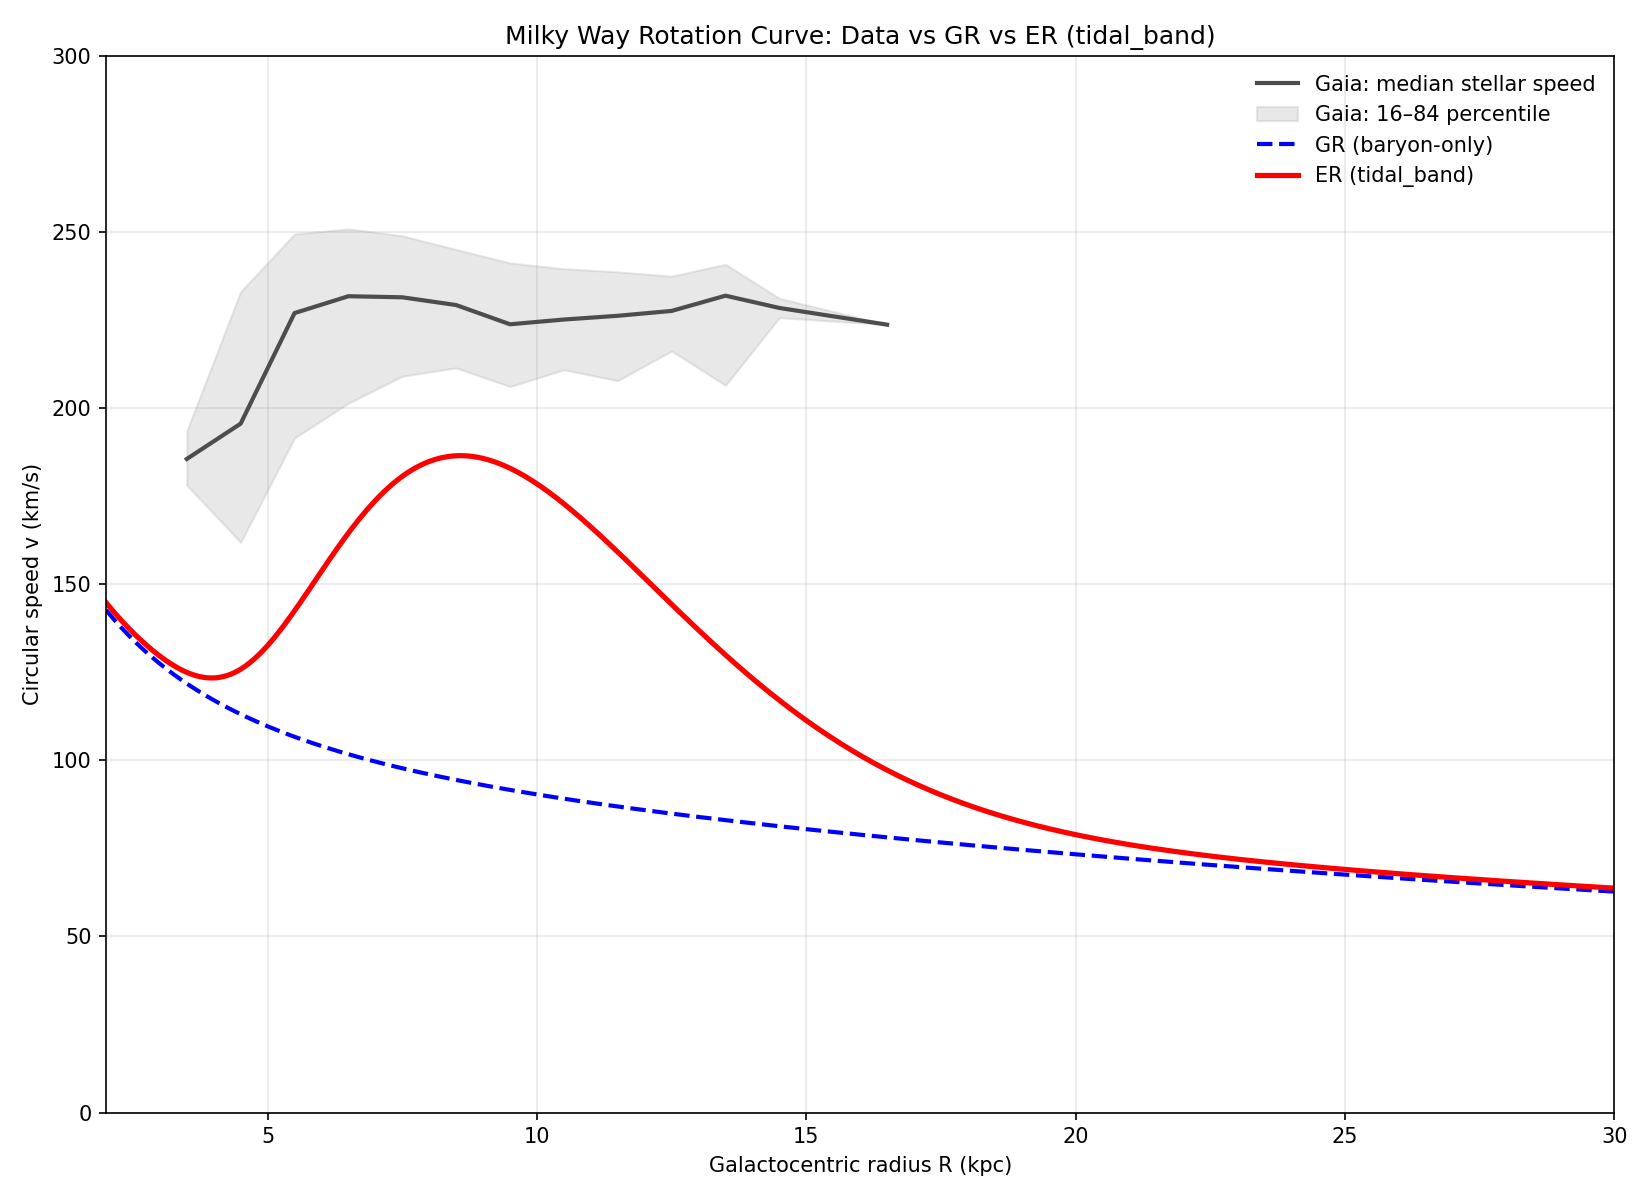
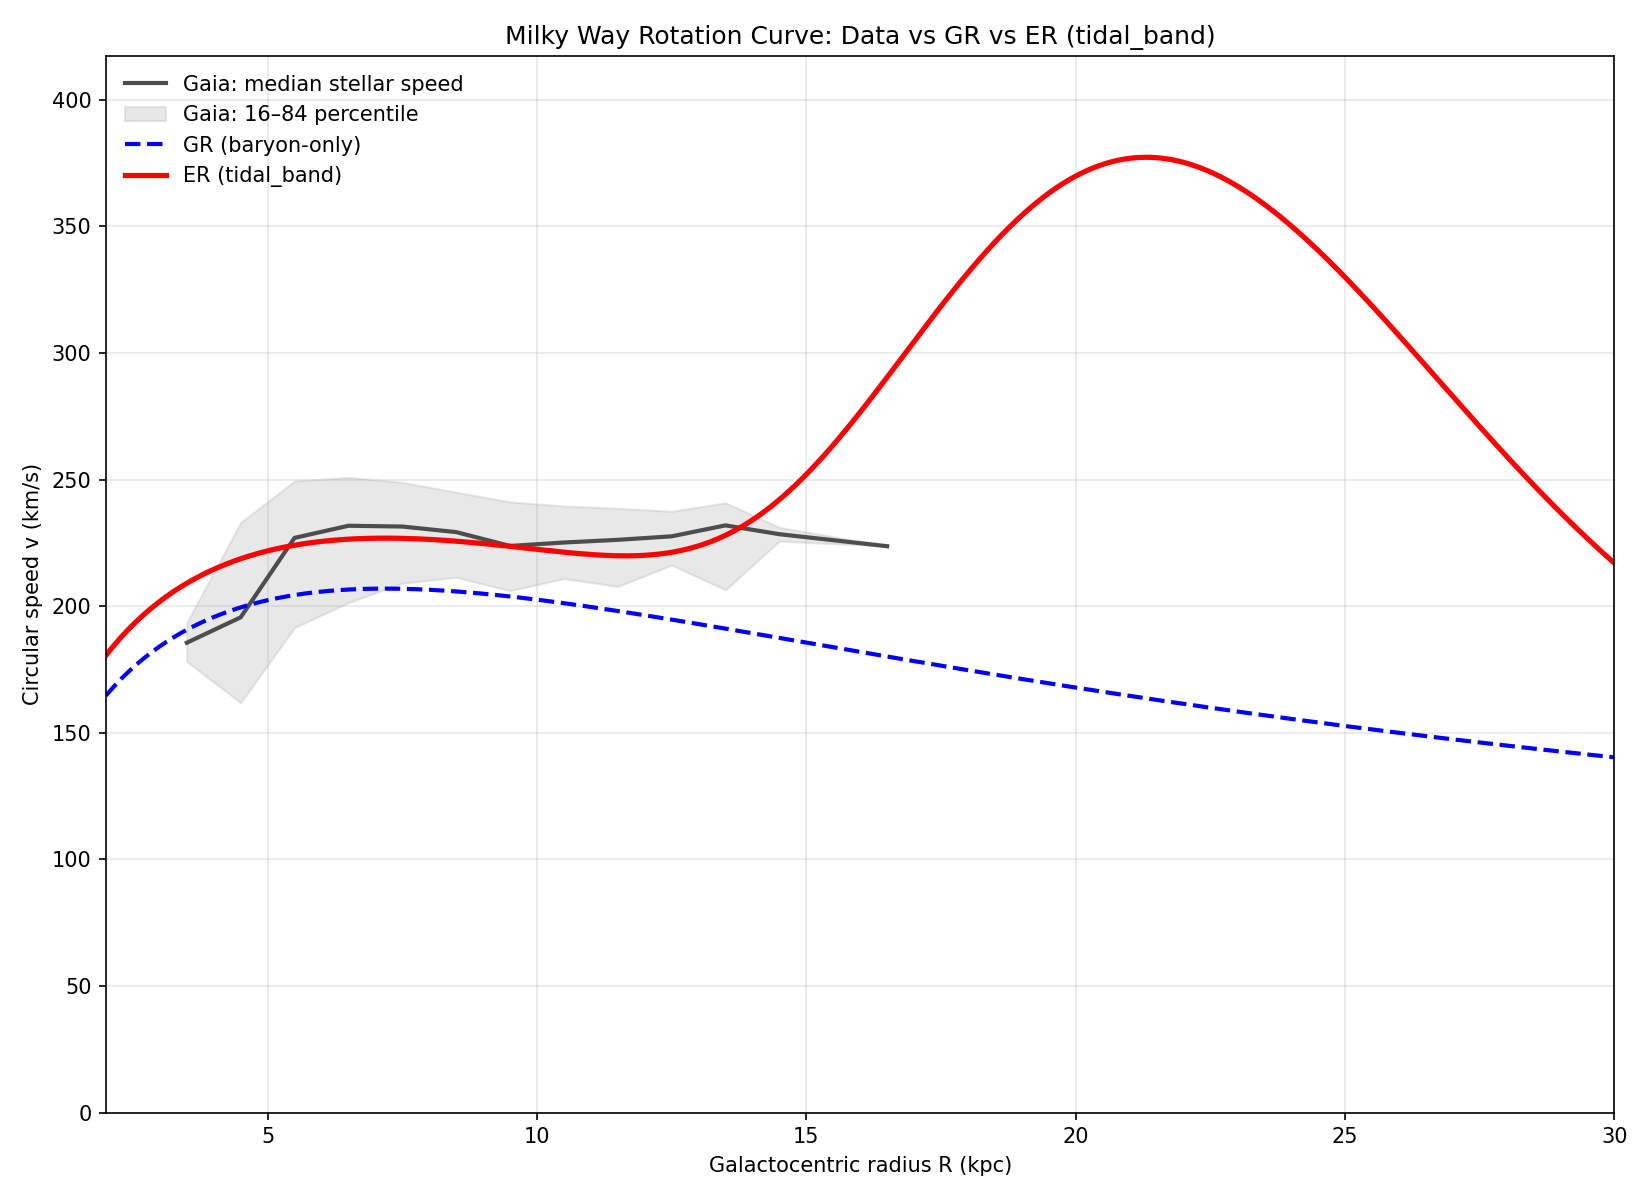
plot: read param_names from npz; remap params_summary generics -> real names; regenerate rotation comparison image

diff --git a/tools/plot_rotation_comparison.py b/tools/plot_rotation_comparison.py
@@ -205,14 +205,19 @@ def build_param_dict(baryon_params: dict, xi_params: dict) -> dict:
 def _weighted_quantiles_from_npz(npz_path: Path) -> Optional[Dict[str, float]]:
     try:
         data = np.load(str(npz_path))
+        # Prefer explicit param names; support both 'names' and 'param_names'
         names = None
         if "names" in data:
             names = [str(n) for n in data["names"]]
+        elif "param_names" in data:
+            names = [str(n) for n in data["param_names"]]
+        # Samples can be stored under several keys
         samples = None
         for key in ("samples", "posterior_samples", "xs"):
             if key in data:
                 samples = np.asarray(data[key])
                 break
+        # Weights (optional)
         weights = None
         for key in ("weights", "w"):
             if key in data:
@@ -264,6 +269,24 @@ def _load_params_from_run(run_dir: Path) -> Optional[Dict[str, float]]:
                     except Exception:
                         continue
             if params:
+                # If parameters are generic (param_0, param_1, ...), try to remap using npz param_names
+                generic = all(k.startswith("param_") for k in params.keys())
+                if generic:
+                    npz_path = run_dir / "posterior_samples.npz"
+                    if npz_path.exists():
+                        try:
+                            data = np.load(str(npz_path))
+                            if "param_names" in data:
+                                names = [str(n) for n in data["param_names"]]
+                                remapped: Dict[str, float] = {}
+                                for i, real_name in enumerate(names):
+                                    key = f"param_{i}"
+                                    if key in params:
+                                        remapped[real_name] = params[key]
+                                if remapped:
+                                    return remapped
+                        except Exception:
+                            pass
                 return params
         except Exception:
             pass
